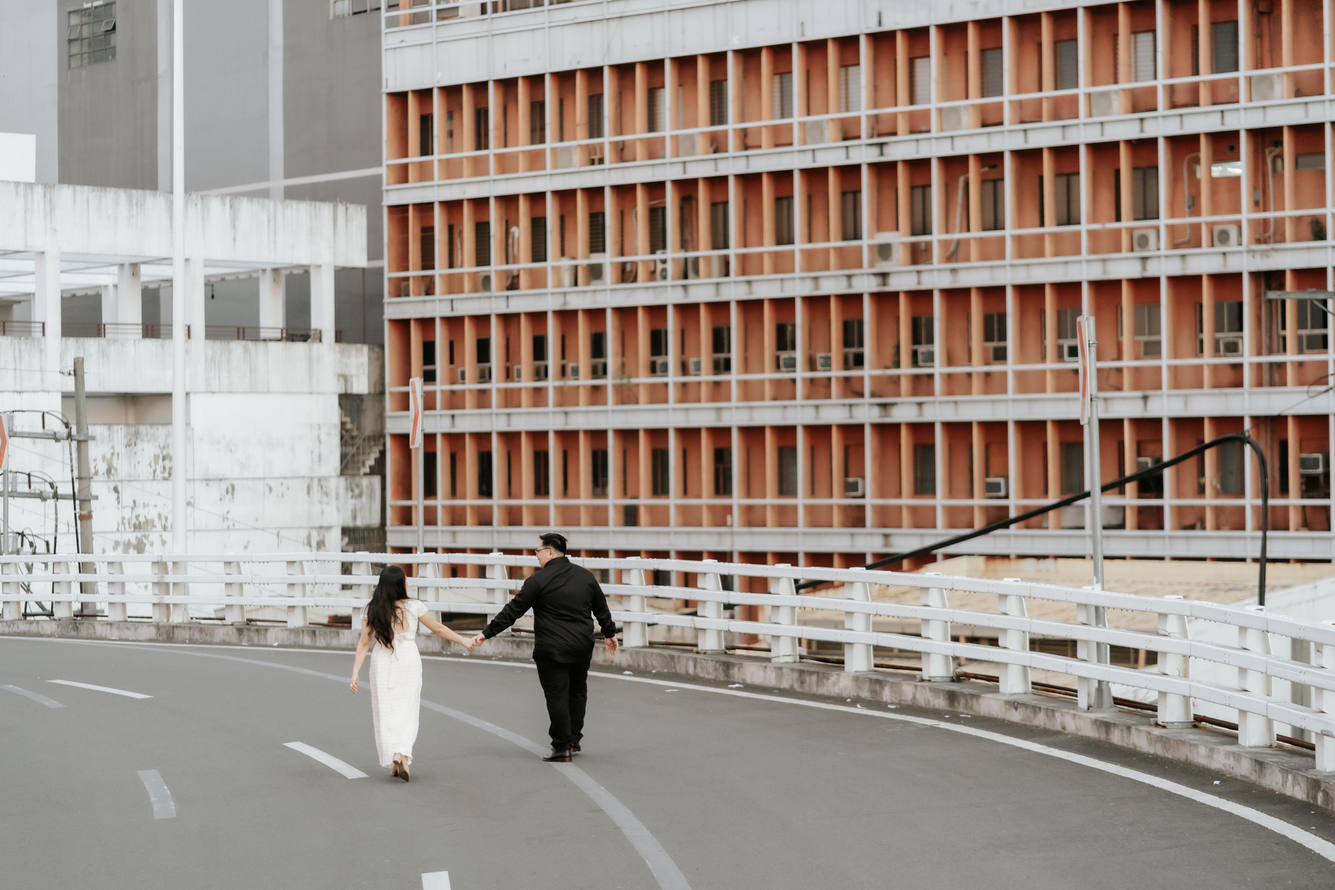
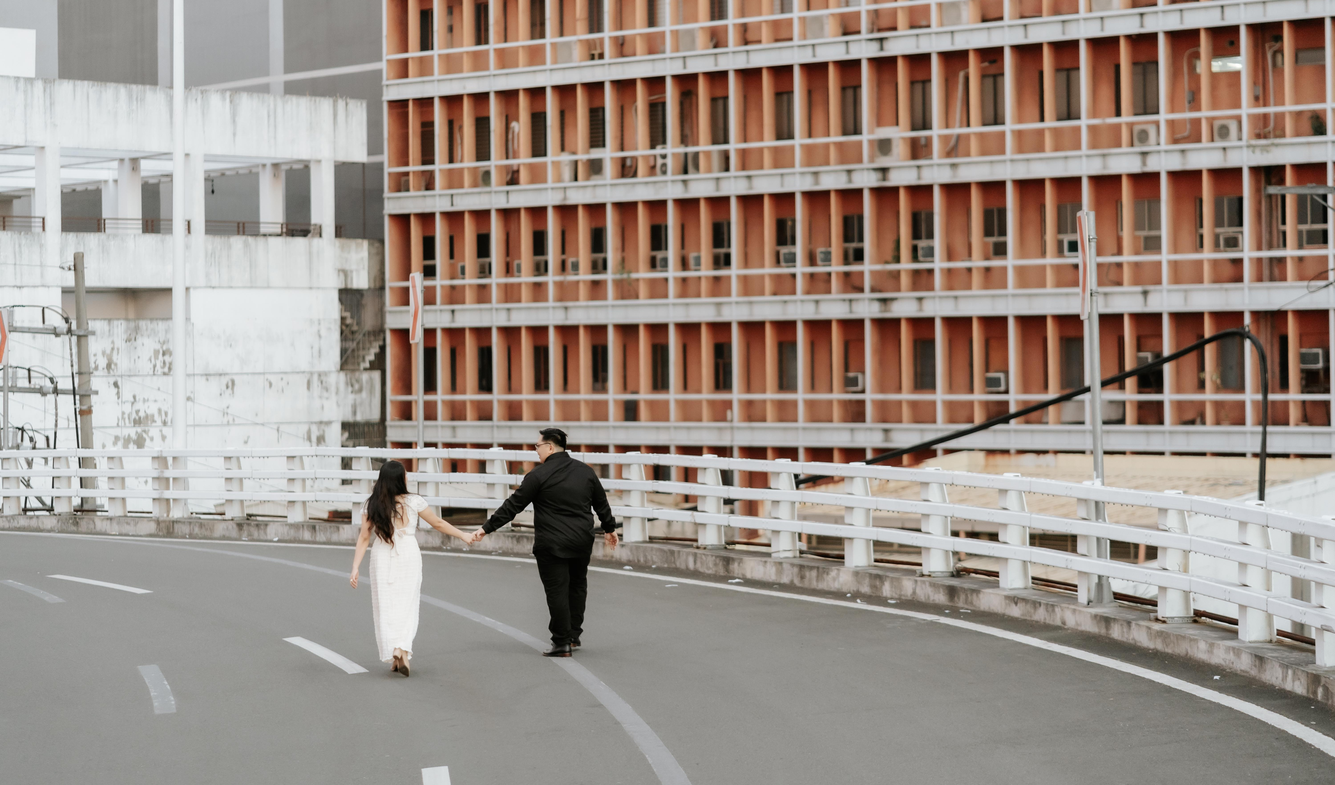
Add different photos for mobile screens

diff --git a/components/Hero.tsx b/components/Hero.tsx
@@ -17,9 +17,27 @@ const greatVibes = Great_Vibes({
 })
 
 const slides = [
-  { src: '/hero-1-hd.jpg', alt: 'Jann Daniel and Faith - Image 1', objectPosition: '30% center' },
-  { src: '/hero-3-hd.jpg', alt: 'Jann Daniel and Faith - Image 2', objectPosition: '30% center' },
-  { src: '/hero-4-hd.jpg', alt: 'Jann Daniel and Faith - Image 3', objectPosition: 'center center' },
+  { 
+    src: '/hero-1-hd.jpg',
+    mobileSrc: '/hero-1-hd-mobile.jpg',
+    alt: 'Jann Daniel and Faith - Image 1',
+    objectPosition: '30% center',
+    mobileObjectPosition: 'center center'
+  },
+  { 
+    src: '/hero-3-hd.jpg',
+    mobileSrc: '/hero-3-hd-mobile.jpg',
+    alt: 'Jann Daniel and Faith - Image 2',
+    objectPosition: '30% center',
+    mobileObjectPosition: 'center center'
+  },
+  { 
+    src: '/hero-4-hd.jpg',
+    mobileSrc: '/hero-4-hd-mobile.jpg',
+    alt: 'Jann Daniel and Faith - Image 3',
+    objectPosition: 'center center',
+    mobileObjectPosition: 'center center'
+  },
 ]
 
 export default function Hero() {
@@ -85,11 +103,24 @@ export default function Hero() {
         {[...slides, slides[0]].map((slide, index) => (
           <div key={index} className="relative min-w-full h-full">
             <Image
+              src={slide.mobileSrc}
+              alt={slide.alt}
+              fill
+              priority={index === 0}
+              quality={95}
+              sizes="100vw"
+              className="object-cover md:hidden"
+              style={{ objectPosition: slide.mobileObjectPosition || slide.objectPosition }}
+            />
+            
+            <Image
               src={slide.src}
               alt={slide.alt}
               fill
               priority={index === 0}
-              className="object-cover"
+              quality={95}
+              sizes="100vw"
+              className="object-cover hidden md:block"
               style={{ objectPosition: slide.objectPosition }}
             />
           </div>
